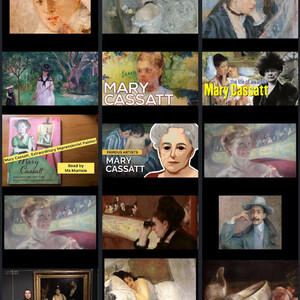
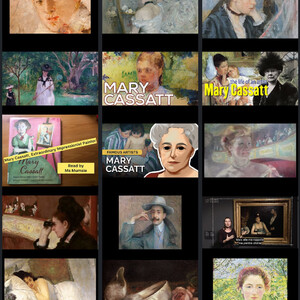
New Revisions

Changed region(s): [[0.0, 0.63, 1.0, 1.0]]

diff --git a/docs/print/westland-warrior/116/index.html b/docs/print/westland-warrior/116/index.html
@@ -78,65 +78,62 @@
   <span>Cassatt, Woman with a Pearl Necklace in a Loge<sup>[18]</sup></span>
 </div>
 <div class="section yt avoid-break-inside" style="padding-bottom: 2rem;">
-  <span>Cassatt, Woman with a Pearl Necklace in a Loge<sup>[19]</sup></span>
-</div>
-<div class="section yt avoid-break-inside" style="padding-bottom: 2rem;">
-  <span>Cassatt, In the Loge<sup>[20]</sup></span>
+  <span>Cassatt, In the Loge<sup>[19]</sup></span>
 </div>
 <div class="section avoid-break-inside" style="padding-bottom: 2rem;">
   <header>
     <h2>Louise Catherine Breslau</h2>
   </header>
   <div class="paragraph">
-    <span>Louise Catherine Breslau »<sup>[21]</sup></span>
+    <span>Louise Catherine Breslau »<sup>[20]</sup></span>
   </div>
 </div>
 <div class="section yt avoid-break-inside" style="padding-bottom: 2rem;">
-  <span>Louise Catherine Breslau (1856-1927)<sup>[22]</sup></span>
+  <span>Louise Catherine Breslau (1856-1927)<sup>[21]</sup></span>
 </div>
 <div class="section yt avoid-break-inside" style="padding-bottom: 2rem;">
-  <span>Marie Darrieussecq - Une loge aux Italiens - de Eva Gonzalès (In French)<sup>[23]</sup></span>
+  <span>Marie Darrieussecq - Une loge aux Italiens - de Eva Gonzalès (In French)<sup>[22]</sup></span>
 </div>
 <div class="section yt avoid-break-inside" style="padding-bottom: 2rem;">
-  <span>Eva Gonzalès (French, 1849-1883) - Part I - A collection of works painted between 1870 and 1879.<sup>[24]</sup></span>
+  <span>Eva Gonzalès (French, 1849-1883) - Part I - A collection of works painted between 1870 and 1879.<sup>[23]</sup></span>
 </div>
 <div class="section yt avoid-break-inside" style="padding-bottom: 2rem;">
-  <span>Eva Gonzalès (French, 1849-1883) - Part II - A collection painted between 1865 and 1883.<sup>[25]</sup></span>
+  <span>Eva Gonzalès (French, 1849-1883) - Part II - A collection painted between 1865 and 1883.<sup>[24]</sup></span>
 </div>
 <div class="section avoid-break-inside" style="padding-bottom: 2rem;">
   <header>
     <h2>Lilla Cabot Perry</h2>
   </header>
   <div class="paragraph">
-    <span>Lilla Cabot Perry »<sup>[26]</sup></span>
+    <span>Lilla Cabot Perry »<sup>[25]</sup></span>
   </div>
 </div>
 <div class="section yt avoid-break-inside" style="padding-bottom: 2rem;">
-  <span>Lilla Cabot Perry (1848-1933) - An American Impressionist artist.<sup>[27]</sup></span>
+  <span>Lilla Cabot Perry (1848-1933) - An American Impressionist artist.<sup>[26]</sup></span>
 </div>
 <div class="section yt avoid-break-inside" style="padding-bottom: 2rem;">
-  <span>Cecilia Beaux<sup>[28]</sup></span>
+  <span>Cecilia Beaux<sup>[27]</sup></span>
 </div>
 <div class="section yt avoid-break-inside" style="padding-bottom: 2rem;">
-  <span>Cecilia Beaux and Mrs. Isaac Newton Phelps Stokes<sup>[29]</sup></span>
+  <span>Cecilia Beaux and Mrs. Isaac Newton Phelps Stokes<sup>[28]</sup></span>
 </div>
 <div class="section yt avoid-break-inside" style="padding-bottom: 2rem;">
-  <span>Portrait Painting Tutorial | Cecilia Beaux Paint Along<sup>[30]</sup></span>
+  <span>Portrait Painting Tutorial | Cecilia Beaux Paint Along<sup>[29]</sup></span>
 </div>
 <div class="section yt avoid-break-inside" style="padding-bottom: 2rem;">
-  <span>In Dialogue — Cecilia Beaux's Twilight Confidences<sup>[31]</sup></span>
+  <span>In Dialogue — Cecilia Beaux's Twilight Confidences<sup>[30]</sup></span>
 </div>
 <div class="section yt avoid-break-inside" style="padding-bottom: 2rem;">
-  <span>Cecilia Beaux (American, 1855-1942)<sup>[32]</sup></span>
+  <span>Cecilia Beaux (American, 1855-1942)<sup>[31]</sup></span>
 </div>
 <div class="section yt avoid-break-inside" style="padding-bottom: 2rem;">
-  <span>12 Most Famous Paintings of all Time<sup>[33]</sup></span>
+  <span>12 Most Famous Paintings of all Time<sup>[32]</sup></span>
 </div>
 <div class="section yt avoid-break-inside" style="padding-bottom: 2rem;">
-  <span>History's Most Impressive Impressionists (Waldemar Januszczak Documentary)<sup>[34]</sup></span>
+  <span>History's Most Impressive Impressionists (Waldemar Januszczak Documentary)<sup>[33]</sup></span>
 </div>
 <div class="section yt avoid-break-inside" style="padding-bottom: 2rem;">
-  <span>The Great Impressionist Innovators (Waldemar Januszczak Documentary)<sup>[35]</sup></span>
+  <span>The Great Impressionist Innovators (Waldemar Januszczak Documentary)<sup>[34]</sup></span>
 </div>
 <div class="break-after">&nbsp;</div>
 <div>
@@ -159,23 +156,22 @@
   <div>[16]: https://www.youtube.com/watch?v=KQlCRe6QELg</div>
   <div>[17]: https://www.youtube.com/watch?v=k4E958E3yg0</div>
   <div>[18]: https://www.youtube.com/watch?v=guxLpVICBjg</div>
-  <div>[19]: https://www.youtube.com/watch?v=guxLpVICBjg</div>
-  <div>[20]: https://www.youtube.com/watch?v=HVuyK_vIMfc</div>
-  <div>[21]: https://en.wikipedia.org/wiki/Louise_Catherine_Breslau</div>
-  <div>[22]: https://www.youtube.com/watch?v=dB56CyUTf3o</div>
-  <div>[23]: https://www.youtube.com/watch?v=ijbWd_Be1MU</div>
-  <div>[24]: https://www.youtube.com/watch?v=isyPhRQdveQ</div>
-  <div>[25]: https://www.youtube.com/watch?v=8RArigCcMXg</div>
-  <div>[26]: https://en.wikipedia.org/wiki/Lilla_Cabot_Perry</div>
-  <div>[27]: https://www.youtube.com/watch?v=qwqmILdVux4</div>
-  <div>[28]: https://www.youtube.com/watch?v=4Qh21mlD4Sc</div>
-  <div>[29]: https://www.youtube.com/watch?v=UBC-ty9SEms</div>
-  <div>[30]: https://www.youtube.com/watch?v=y820n6vy8cw</div>
-  <div>[31]: https://www.youtube.com/watch?v=iJ9qlUPwAo0</div>
-  <div>[32]: https://www.youtube.com/watch?v=hl5trLOiRto</div>
-  <div>[33]: https://www.youtube.com/watch?v=Y65_Qs1Wq0w</div>
-  <div>[34]: https://www.youtube.com/watch?v=kzjRJzhnn8k</div>
-  <div>[35]: https://www.youtube.com/watch?v=d4DMMycMphk</div>
+  <div>[19]: https://www.youtube.com/watch?v=HVuyK_vIMfc</div>
+  <div>[20]: https://en.wikipedia.org/wiki/Louise_Catherine_Breslau</div>
+  <div>[21]: https://www.youtube.com/watch?v=dB56CyUTf3o</div>
+  <div>[22]: https://www.youtube.com/watch?v=ijbWd_Be1MU</div>
+  <div>[23]: https://www.youtube.com/watch?v=isyPhRQdveQ</div>
+  <div>[24]: https://www.youtube.com/watch?v=8RArigCcMXg</div>
+  <div>[25]: https://en.wikipedia.org/wiki/Lilla_Cabot_Perry</div>
+  <div>[26]: https://www.youtube.com/watch?v=qwqmILdVux4</div>
+  <div>[27]: https://www.youtube.com/watch?v=4Qh21mlD4Sc</div>
+  <div>[28]: https://www.youtube.com/watch?v=UBC-ty9SEms</div>
+  <div>[29]: https://www.youtube.com/watch?v=y820n6vy8cw</div>
+  <div>[30]: https://www.youtube.com/watch?v=iJ9qlUPwAo0</div>
+  <div>[31]: https://www.youtube.com/watch?v=hl5trLOiRto</div>
+  <div>[32]: https://www.youtube.com/watch?v=Y65_Qs1Wq0w</div>
+  <div>[33]: https://www.youtube.com/watch?v=kzjRJzhnn8k</div>
+  <div>[34]: https://www.youtube.com/watch?v=d4DMMycMphk</div>
 </div>
 
   </main>

diff --git a/docs/read/westland-warrior/116/index.html b/docs/read/westland-warrior/116/index.html
@@ -199,13 +199,6 @@
   </div>
 </div>
 <div class="card card-section bg-dark text-warning shadow">
-  <div class="card-header">Cassatt, Woman with a Pearl Necklace in a Loge</div>
-  <a href="https://www.youtube.com/watch?v=guxLpVICBjg" title="Cassatt, Woman with a Pearl Necklace in a Loge" alt="Cassatt, Woman with a Pearl Necklace in a Loge"><img src="/warrior/image/yid-guxLpVICBjg.jpg" alt="Cassatt, Woman with a Pearl Necklace in a Loge" class="card-img"></a>
-  <div class="card-body">
-    <a href="https://www.youtube.com/watch?v=guxLpVICBjg" title="Cassatt, Woman with a Pearl Necklace in a Loge" class="btn btn-warning">Play Video</a>
-  </div>
-</div>
-<div class="card card-section bg-dark text-warning shadow">
   <div class="card-header">Cassatt, In the Loge</div>
   <a href="https://www.youtube.com/watch?v=HVuyK_vIMfc" title="Cassatt, In the Loge" alt="Cassatt, In the Loge"><img src="/warrior/image/yid-HVuyK_vIMfc.jpg" alt="Cassatt, In the Loge" class="card-img"></a>
   <div class="card-body">
